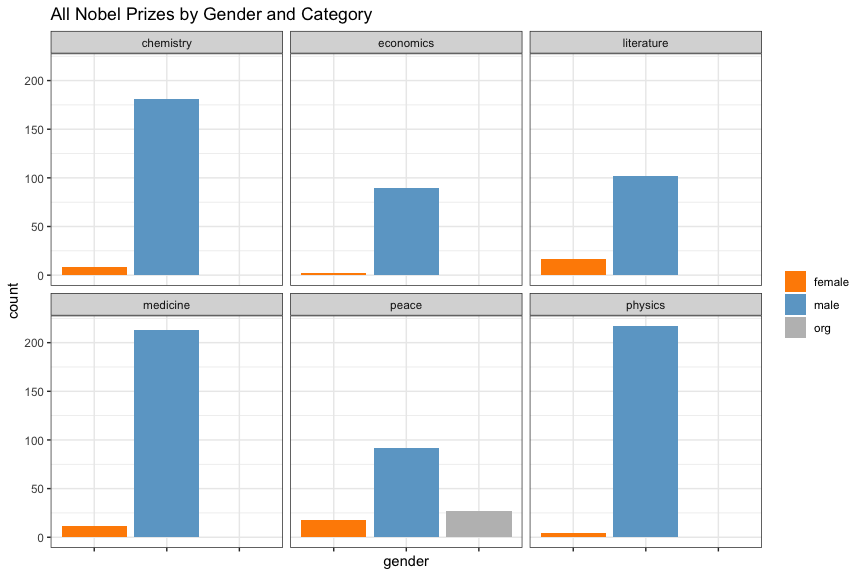
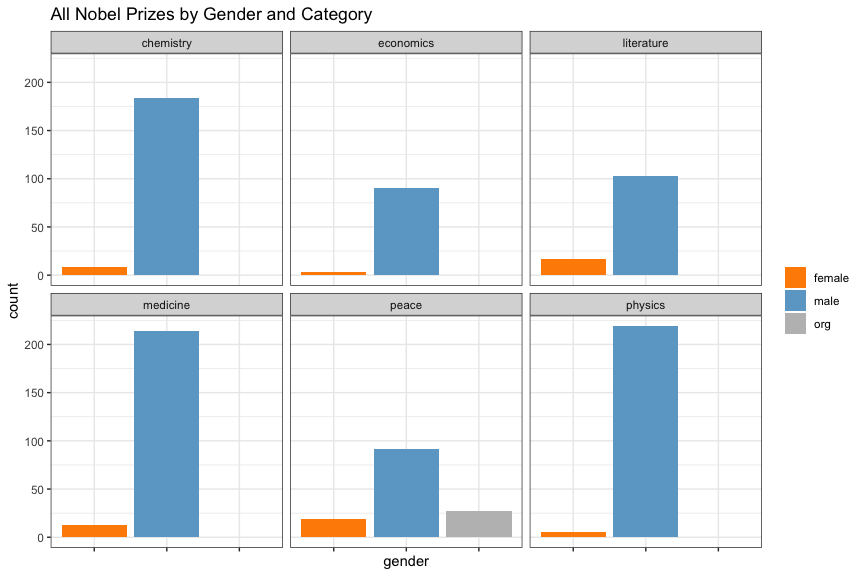
Updated to end 2023

diff --git a/code/R/nobel.md b/code/R/nobel.md
@@ -1,32 +1,23 @@
 Analysis of Nobel Prize Data
 ================
 Neil Saunders
-compiled 2023-01-22 10:53:49
+compiled 2024-06-06 09:50:17.735166
 
-- <a href="#introduction" id="toc-introduction">Introduction</a>
-- <a href="#getting-the-data" id="toc-getting-the-data">Getting the
-  data</a>
-- <a href="#analysis" id="toc-analysis">Analysis</a>
-  - <a href="#multiple-prize-winners"
-    id="toc-multiple-prize-winners">Multiple prize winners</a>
-  - <a href="#gender" id="toc-gender">Gender</a>
-    - <a href="#gender-by-category" id="toc-gender-by-category">Gender by
-      category</a>
-    - <a href="#gender-over-time" id="toc-gender-over-time">Gender over
-      time</a>
-  - <a href="#share" id="toc-share">Share</a>
-    - <a href="#share-by-category" id="toc-share-by-category">Share by
-      category</a>
-  - <a href="#ages" id="toc-ages">Ages</a>
-    - <a href="#ages-by-category" id="toc-ages-by-category">Ages by
-      category</a>
-    - <a href="#ages-by-year-awarded" id="toc-ages-by-year-awarded">Ages by
-      year awarded</a>
-  - <a href="#countries" id="toc-countries">Countries</a>
-    - <a href="#countries-by-category"
-      id="toc-countries-by-category">Countries by category</a>
-    - <a href="#country-of-birth-and-death"
-      id="toc-country-of-birth-and-death">Country of birth and death</a>
+- [Introduction](#introduction)
+- [Getting the data](#getting-the-data)
+- [Analysis](#analysis)
+  - [Multiple prize winners](#multiple-prize-winners)
+  - [Gender](#gender)
+    - [Gender by category](#gender-by-category)
+    - [Gender over time](#gender-over-time)
+  - [Share](#share)
+    - [Share by category](#share-by-category)
+  - [Ages](#ages)
+    - [Ages by category](#ages-by-category)
+    - [Ages by year awarded](#ages-by-year-awarded)
+  - [Countries](#countries)
+    - [Countries by category](#countries-by-category)
+    - [Country of birth and death](#country-of-birth-and-death)
 
 # Introduction
 
@@ -179,10 +170,10 @@ Pauling
 USA
 </td>
 <td style="text-align:left;">
-1962
+1954
 </td>
 <td style="text-align:left;">
-peace
+chemistry
 </td>
 </tr>
 <tr>
@@ -199,10 +190,10 @@ Pauling
 USA
 </td>
 <td style="text-align:left;">
-1954
+1962
 </td>
 <td style="text-align:left;">
-chemistry
+peace
 </td>
 </tr>
 <tr>
@@ -494,8 +485,8 @@ a Sankey diagram using the D3 library.
 
 Here is the result.
 
-<div class="sankeyNetwork html-widget html-fill-item-overflow-hidden html-fill-item" id="htmlwidget-c8225d77b830b5108529" style="width:672px;height:480px;"></div>
-<script type="application/json" data-for="htmlwidget-c8225d77b830b5108529">{"x":{"links":{"source":[0,2,2,2,2,2,7,7,7,9,10,10,13,13,15,16,17,17,17,19,19,3,3,22,23,24,28,28,28,4,4,4,4,4,4,4,31,31,33,34,34,34,35,38,14,14,14,14,14,14,14,1,1,1,1,1,1,1,41,42,44,45,46,46,46,47,29,29,49,49,51,20,55,57,60,63,65,66,48,48,48,48,32,32,69,69,72,72,61,61,61,61,61,61,73,30,8,8,8,8,8,5,75,76,78,79,81,81,81,6,6,6,6,6,6,83,86,86,88],"target":[1,3,4,1,5,6,3,1,8,8,3,11,3,14,3,1,18,8,6,20,6,14,20,6,6,25,2,4,6,19,3,1,29,30,5,6,4,32,14,14,1,6,36,5,0,3,35,39,29,40,6,7,13,19,14,29,20,6,3,14,35,3,4,1,6,48,14,1,1,6,1,6,6,58,61,4,14,49,3,4,1,6,14,6,1,6,1,6,0,3,4,14,1,6,35,6,13,3,4,14,6,74,2,4,43,1,14,18,6,35,1,20,82,32,71,6,87,6,86],"value":[1,1,4,1,1,3,1,2,1,1,1,1,1,2,1,1,2,1,1,1,9,1,1,1,3,1,1,1,2,1,5,2,1,1,2,7,1,1,1,1,1,1,1,1,1,1,1,1,1,1,3,1,1,1,1,1,1,9,1,1,1,1,1,1,5,1,2,2,2,1,1,6,1,1,1,1,1,1,1,2,1,3,1,1,2,1,1,1,1,3,7,2,1,7,1,2,1,1,2,1,4,1,1,1,1,1,1,1,1,1,1,1,1,1,1,1,1,2,1]},"nodes":{"name":["AR","GB","AT","CH","DE","SE","US","AU","RU","AZ","BA","RS","BD","BE","FR","BG","BR","BY","IL","CA","IT","CD","CL","CN","CO","MX","CR","CY","CZ","IE","RO","DK","NO","DZ","EG","ES","PR","ET","FI","GA","TN","GH","GP","GR","GT","HR","HU","ID","NL","IN","IQ","IR","IS","JP","KE","KR","LB","LC","BB","LR","LT","PL","LU","LV","MA","MG","MK","MM","NG","NZ","PE","PH","PK","PT","ZM","SI","SK","TL","TR","TT","TW","UA","JM","VE","VN","YE","ZA","SG","ZW"]},"options":{"NodeID":1,"NodeGroup":1,"LinkGroup":null,"colourScale":"d3.scaleOrdinal(d3.schemeCategory20);","fontSize":12,"fontFamily":null,"nodeWidth":30,"nodePadding":10,"units":"","margin":{"top":null,"right":null,"bottom":null,"left":null},"iterations":32,"sinksRight":true}},"evals":[],"jsHooks":[]}</script>
+<div class="sankeyNetwork html-widget html-fill-item" id="htmlwidget-dfcaf45c736d40f54dff" style="width:672px;height:480px;"></div>
+<script type="application/json" data-for="htmlwidget-dfcaf45c736d40f54dff">{"x":{"links":{"source":[0,2,2,2,2,2,7,7,7,9,10,10,13,13,15,16,17,17,17,19,19,3,3,22,23,24,28,28,28,4,4,4,4,4,4,4,31,31,33,34,34,34,35,38,14,14,14,14,14,14,14,1,1,1,1,1,1,1,41,42,44,45,46,46,46,47,29,29,49,49,51,20,55,57,60,63,65,66,48,48,48,48,32,32,69,69,72,72,61,61,61,61,61,61,73,30,8,8,8,8,8,5,75,76,78,79,81,81,81,6,6,6,6,6,6,83,86,86,88],"target":[1,3,4,1,5,6,3,1,8,8,3,11,3,14,3,1,18,8,6,20,6,14,20,6,6,25,2,4,6,19,3,1,29,30,5,6,4,32,14,14,1,6,36,5,0,3,35,39,29,40,6,7,13,19,14,29,20,6,3,14,35,3,4,1,6,48,14,1,1,6,1,6,6,58,61,4,14,49,3,4,1,6,14,6,1,6,1,6,0,3,4,14,1,6,35,6,13,3,4,14,6,74,2,4,43,1,14,18,6,35,1,20,82,32,71,6,87,6,86],"value":[1,1,4,1,1,3,1,2,1,1,1,1,1,2,1,1,2,1,1,1,9,1,1,1,3,1,1,1,2,1,5,2,1,1,2,10,1,1,1,1,1,1,1,1,1,1,1,1,1,1,4,1,1,1,1,1,1,9,1,1,1,1,1,1,5,1,2,2,2,1,1,6,1,1,1,1,1,1,1,2,1,3,1,1,2,1,1,1,1,3,7,2,1,7,1,2,1,1,2,1,4,1,1,1,1,1,1,1,1,1,1,1,1,1,1,1,1,2,1]},"nodes":{"name":["AR","GB","AT","CH","DE","SE","US","AU","RU","AZ","BA","RS","BD","BE","FR","BG","BR","BY","IL","CA","IT","CD","CL","CN","CO","MX","CR","CY","CZ","IE","RO","DK","NO","DZ","EG","ES","PR","ET","FI","GA","TN","GH","GP","GR","GT","HR","HU","ID","NL","IN","IQ","IR","IS","JP","KE","KR","LB","LC","BB","LR","LT","PL","LU","LV","MA","MG","MK","MM","NG","NZ","PE","PH","PK","PT","ZM","SI","SK","TL","TR","TT","TW","UA","JM","VE","VN","YE","ZA","SG","ZW"]},"options":{"NodeID":1,"NodeGroup":1,"LinkGroup":null,"colourScale":"d3.scaleOrdinal(d3.schemeCategory20);","fontSize":12,"fontFamily":null,"nodeWidth":30,"nodePadding":10,"units":"","margin":{"top":null,"right":null,"bottom":null,"left":null},"iterations":32,"sinksRight":true}},"evals":[],"jsHooks":[]}</script>
 
 The migration of many laureates to the US is apparent, as is the number
 of laureates originating from or moving to European nations such as the
